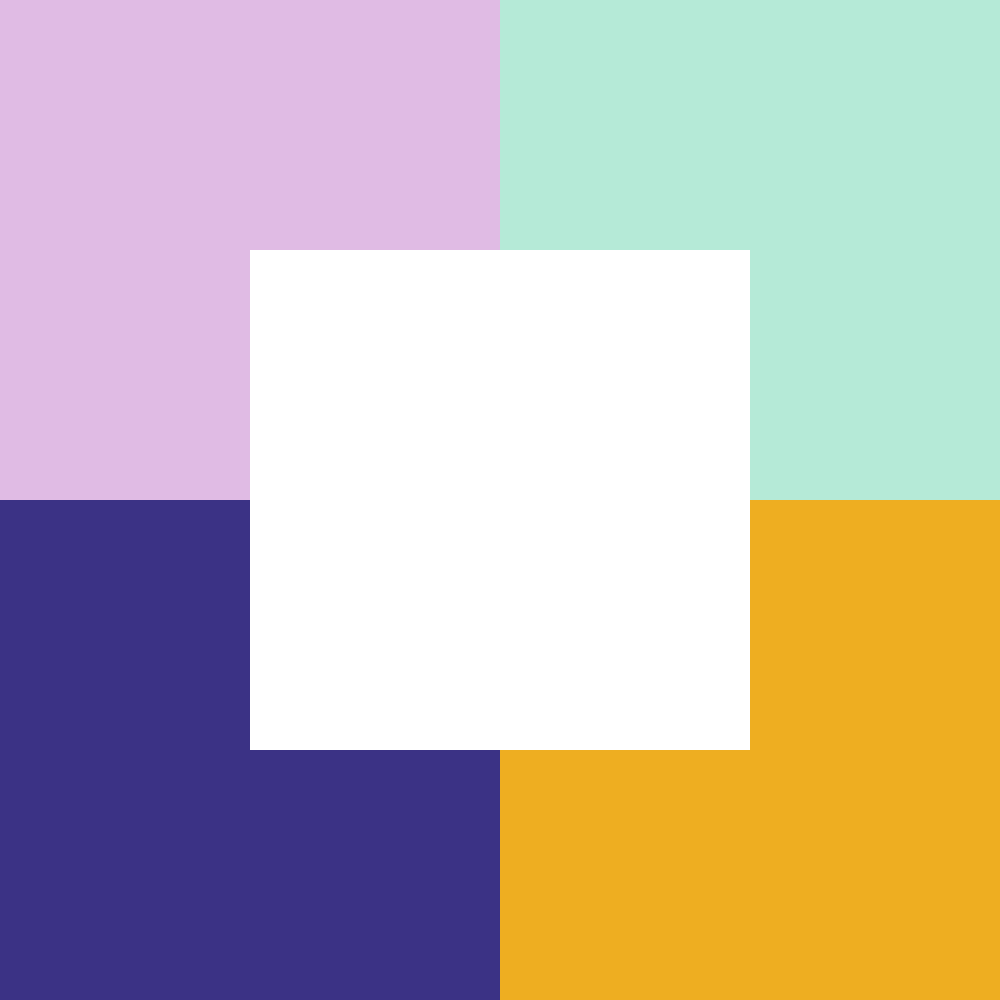
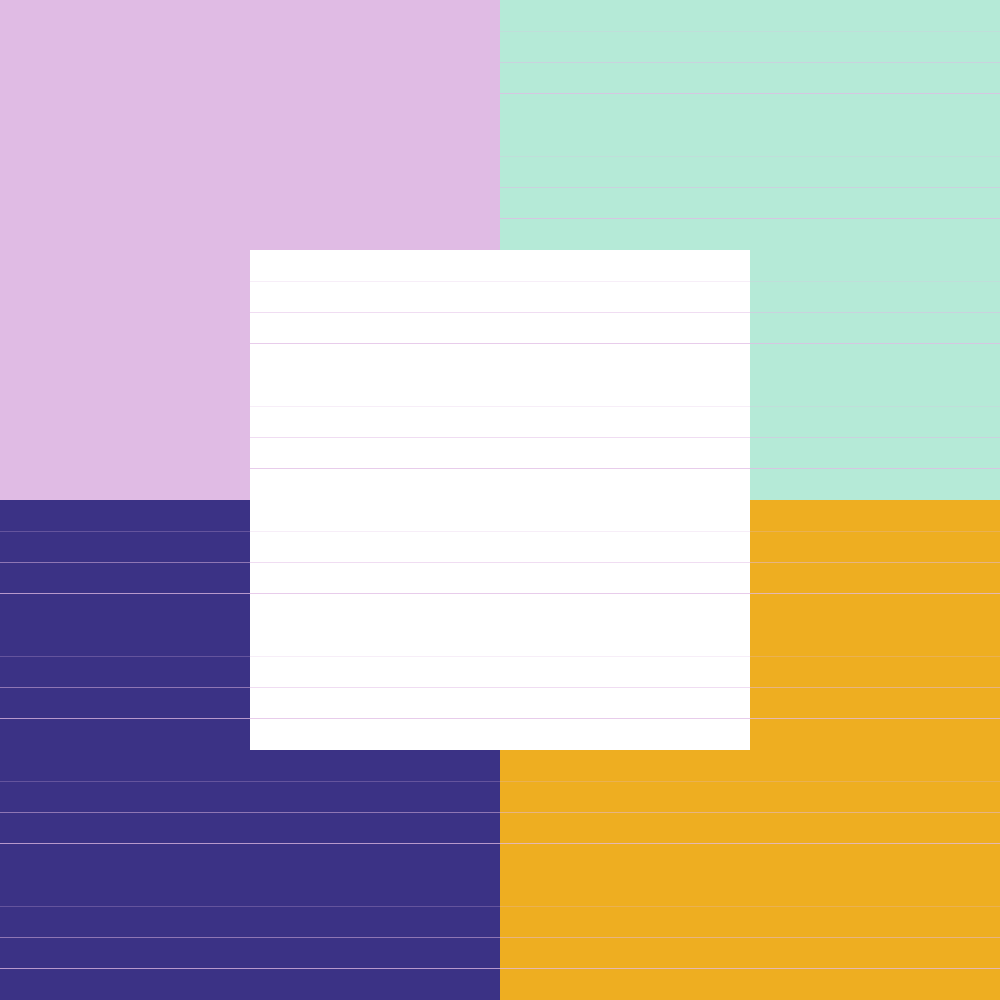
towards 0.0.25 - broken upscale (superpixels) algo while working on further optimization

diff --git a/ta-math/transform.js b/ta-math/transform.js
@@ -642,8 +642,7 @@ let read_2x2_weight_write_24bipp$ta4byis = (ta_source, ta4byis, ta_dest, byi_wri
 
 
 // Now it's got slower taking these 2 ints in the params.
-
-let read_2x2_weight_write_24bipp$2_weight_ints = (ta_source, byi_read, bypr, ta_dest, byi_write, ta_lt_props) => {
+let read_2x2_weight_write_24bipp$2_weight_ints = (ta_source, bypr, byi_read, ta_dest, byi_write, ta_lt_props) => {
 
     // Calculate them each time???
 
@@ -1148,7 +1147,7 @@ let resize_ta_colorspace_24bipp$subpixel = (ta_source, source_colorspace, dest_s
                     copy_px_24bipp(ta_source, byi_source, ta_dest, byi_write);
                 } else {
                     //ta_byi_reads[2] = ta_byi_reads[0] + source_bypr;
-                    read_1x2_weight_write_24bipp(ta_source, byi_source, source_bypr, ta_dest, byi_write, ta_ltrb_edge_props[1], ta_ltrb_edge_props[3]);
+                    read_1x2_weight_write_24bipp(ta_source, source_bypr, byi_source, ta_dest, byi_write, ta_ltrb_edge_props[1], ta_ltrb_edge_props[3]);
                 }
             } else {
                 if (ta_ltrb_edge_props[1] === 1) {
@@ -1174,7 +1173,7 @@ let resize_ta_colorspace_24bipp$subpixel = (ta_source, source_colorspace, dest_s
                     //read_2x2_weight_write_24bipp$2_weight_ints(ta_source, byi_source, source_bypr, ta_dest, byi_write, ta_tl_weight_props);
 
                     // Surprising that below function works faster in a different loop!
-                    read_2x2_weight_write_24bipp(ta_source, byi_source, source_bypr, ta_dest, byi_write, ta_ltrb_corner_props);
+                    read_2x2_weight_write_24bipp(ta_source, source_bypr, byi_source, ta_dest, byi_write, ta_ltrb_corner_props);
 
 
                     // Then inlining the read_2x2_weight_write_24bipp function could speed it up?
@@ -1216,10 +1215,10 @@ let resize_ta_colorspace_24bipp$superpixel = (ta_source, source_colorspace, dest
 
 
     let f_source_x, f_source_r;
-    let i_source_l, i_source_lr_crossover;
+    let i_source_l, i_source_r;
 
     let f_source_y, f_source_b;
-    let i_source_t, i_source_tb_crossover;
+    let i_source_t, i_source_b;
 
     let i_dest_x, i_dest_y;
 
@@ -1227,6 +1226,11 @@ let resize_ta_colorspace_24bipp$superpixel = (ta_source, source_colorspace, dest
     // Typed arrays of the corresponding source(tl) positions / byte offsets?
     //  Storing / caching calculated byte offsets for x and y source reads could speed things up...?
 
+    // segment weights... - as in proportions of the total area.
+    // proportions of the pixel width.
+
+    // Segment size
+    //  Segment proportions of the whole area.
 
 
     const ta_left_edge_segment_proportions = new Float32Array(dest_size[0]);
@@ -1244,6 +1248,7 @@ let resize_ta_colorspace_24bipp$superpixel = (ta_source, source_colorspace, dest
     const ta_source_y_any_coverage_h = new Int16Array(dest_size[1]);
     
     const source_i_any_coverage_size = new Int16Array(2);
+    let fpx_area_recip = 1 / (f_px_w * f_px_h);
 
 
 
@@ -1263,10 +1268,15 @@ let resize_ta_colorspace_24bipp$superpixel = (ta_source, source_colorspace, dest
         f_source_x = i_dest_x * f_px_w;
         f_source_r = f_source_x + f_px_w;
         i_source_l = Math.floor(f_source_x);
+        i_source_r = Math.ceil(f_source_r);
         //i_source_lr_crossover = i_source_l + 1;
 
         ta_source_x[i_dest_x] = i_source_l;
         ta_source_x_byi_component[i_dest_x] = i_source_l * source_bypp;
+        ta_source_x_any_coverage_w[i_dest_x] = i_source_r - i_source_l;
+
+        ta_left_edge_segment_proportions[i_dest_x] = (f_source_x - i_source_l) * fpx_area_recip;
+        ta_right_edge_segment_proportions[i_dest_x] = (i_source_r - f_source_r) * fpx_area_recip;
 
 
         /*
@@ -1281,6 +1291,9 @@ let resize_ta_colorspace_24bipp$superpixel = (ta_source, source_colorspace, dest
         //ta_left_proportions[x] = 
     }
 
+    //console.trace();
+    //throw 'stop';
+
 
     // we only really need to values to calculate all corner weightings as well.
     //  left edge proportion, top edge proportion. multiply the proportions, it should work...
@@ -1293,11 +1306,15 @@ let resize_ta_colorspace_24bipp$superpixel = (ta_source, source_colorspace, dest
         f_source_y = i_dest_y * f_px_h;
         f_source_b = f_source_y + f_px_h;
         i_source_t = Math.floor(f_source_y);
+        i_source_b = Math.ceil(f_source_b);
         //i_source_tb_crossover = i_source_t + 1;
 
         ta_source_y[i_dest_y] = i_source_t;
         ta_source_y_byi_component[i_dest_y] = i_source_t * source_bypr;
+        ta_source_y_any_coverage_h[i_dest_y] = i_source_b - i_source_t;
 
+        ta_top_edge_segment_proportions[i_dest_y] = (f_source_y - i_source_t) * fpx_area_recip;
+        ta_bottom_edge_segment_proportions[i_dest_y] = (i_source_b - f_source_b) * fpx_area_recip;
         /*
         if (f_source_b < i_source_tb_crossover || i_source_t === f_source_y) {
             ta_top_proportions[i_dest_y] = 1;
@@ -1341,7 +1358,7 @@ let resize_ta_colorspace_24bipp$superpixel = (ta_source, source_colorspace, dest
     // Want them as a proportion of the area of the pixel...
 
 
-    let fpx_area_recip = 1 / (f_px_w * f_px_h);
+    
 
 
     
@@ -1351,15 +1368,19 @@ let resize_ta_colorspace_24bipp$superpixel = (ta_source, source_colorspace, dest
 
     // Had bug, fixed...
     for (i_dest_y = 0; i_dest_y < dest_size[1]; i_dest_y++) {
-        ta_ltrb_edge_props[1] = ta_top_proportions[i_dest_y];
-        ta_ltrb_edge_props[3] = 1 - ta_top_proportions[i_dest_y];
+        ta_ltrb_edge_props[1] = ta_top_edge_segment_proportions[i_dest_y];
+        ta_ltrb_edge_props[3] = 1 - ta_bottom_edge_segment_proportions[i_dest_y];
+        source_i_any_coverage_size[1] = ta_source_y_any_coverage_h[i_dest_y];
+
+
         //ta_tl_weight_props[1] = t_prop;
         for (i_dest_x = 0; i_dest_x < dest_size[0]; i_dest_x++) {
+            source_i_any_coverage_size[0] = ta_source_x_any_coverage_w[i_dest_x];
 
             byi_source = ta_source_x_byi_component[i_dest_x] + ta_source_y_byi_component[i_dest_y];
 
-            ta_ltrb_edge_props[0] = ta_left_proportions[i_dest_x];
-            ta_ltrb_edge_props[2] = 1 - ta_left_proportions[i_dest_x];
+            ta_ltrb_edge_props[0] = ta_left_edge_segment_proportions[i_dest_x];
+            ta_ltrb_edge_props[2] = ta_right_edge_segment_proportions[i_dest_x];
 
             
 
@@ -1371,26 +1392,25 @@ let resize_ta_colorspace_24bipp$superpixel = (ta_source, source_colorspace, dest
             // Want the proportions of the toal width, height or area.
             //  
 
-
             //ta_byi_reads[0] = ta_source_x_byi_component[i_dest_x] + ta_source_y_byi_component[i_dest_y];
             //  a typed array of the source byte indexes?
 
             // 2x2, 2x3, 3x2, 3x3, (>3x3, 3x>3???), general purpose.
 
-            
-
-
-
-
             if (ta_ltrb_edge_props[0] === 2) {
                 if (ta_ltrb_edge_props[1] === 2) {
-                    read_2x2_weight_write_24bipp(ta_source, byi_source, source_bypr, ta_dest, byi_write, ta_ltrb_corner_props);
+                    read_2x2_weight_write_24bipp(ta_source, source_bypr, byi_source, ta_dest, byi_write, ta_ltrb_corner_props);
 
 
                     //copy_px_24bipp(ta_source, byi_source, ta_dest, byi_write);
                 } else if (ta_ltrb_edge_props[1] === 3) {
                     //ta_byi_reads[2] = ta_byi_reads[0] + source_bypr;
-                    read_2x3_weight_write_24bipp(ta_source, byi_source, source_bypr, ta_dest, byi_write, ta_ltrb_edge_props[1], ta_ltrb_edge_props[3]);
+
+                    // better to give it the full array?
+
+                    // (ta_source, bypr, byi_read, edge_distances_proportions_of_total, corner_weights_ltrb, ta_dest, dest_byi)
+
+                    read_2x3_weight_write_24bipp(ta_source, source_bypr, byi_source, ta_dest, byi_write, ta_ltrb_edge_props[1], ta_ltrb_edge_props[3]);
                 } else {
                     // px i w covered > 3
 
@@ -1398,10 +1418,13 @@ let resize_ta_colorspace_24bipp$superpixel = (ta_source, source_colorspace, dest
             } else if (ta_ltrb_edge_props[0] === 3) {
                 if (ta_ltrb_edge_props[1] === 2) {
                     //ta_byi_reads[1] = ta_byi_reads[0] + source_bypp;
-                    read_3x2_weight_write_24bipp(ta_source, byi_source, ta_dest, byi_write, ta_ltrb_edge_props[0], ta_ltrb_edge_props[2]);
+
+                    // (ta_source, byi_read, bypr, edge_distances_proportions_of_total, corner_weights_ltrb, ta_dest, dest_byi)
+
+                    read_3x2_weight_write_24bipp(ta_source, source_bypr, byi_source, ta_dest, byi_write, ta_ltrb_edge_props[0], ta_ltrb_edge_props[2]);
                 } else if (ta_ltrb_edge_props[1] === 3) {
 
-                    read_3x3_weight_write_24bipp(ta_source, byi_source, ta_dest, byi_write, ta_ltrb_edge_props[0], ta_ltrb_edge_props[2]);
+                    read_3x3_weight_write_24bipp(ta_source, source_bypr, byi_source, ta_dest, byi_write, ta_ltrb_edge_props[0], ta_ltrb_edge_props[2]);
 
                     //ta_tl_weight_props[0] = l_prop;
                     //ta_ltrb_corner_props[0] = l_prop * ;
@@ -1430,11 +1453,13 @@ let resize_ta_colorspace_24bipp$superpixel = (ta_source, source_colorspace, dest
 
                     // (ta_source, bypr, byi_read, source_i_any_coverage_size, edge_distances_proportions_of_total, corner_weights_ltrb, fpx_area_recip, ta_dest, dest_byi)
 
-                    read_gt3x3_weight_write_24bipp();
+                    //console.log('source_i_any_coverage_size', source_i_any_coverage_size);
+
+                    read_gt3x3_weight_write_24bipp(ta_source, source_bypr, byi_source, source_i_any_coverage_size, ta_ltrb_edge_props, ta_ltrb_corner_props, fpx_area_recip, ta_dest, byi_write);
 
                 }
             } else {
-                read_gt3x3_weight_write_24bipp();
+                read_gt3x3_weight_write_24bipp(ta_source, source_bypr, byi_source, source_i_any_coverage_size, ta_ltrb_edge_props, ta_ltrb_corner_props, fpx_area_recip, ta_dest, byi_write);
             }
 
             byi_write += 3;
@@ -1834,12 +1859,6 @@ const resize_ta_colorspace_24bipp = (ta_source, source_colorspace, dest_size, op
     //  May also be better to use functions for single pixel , 2x1 etc read-merge-write operations.
     //   Would make this function significantly shorter overall, and act more as a function dispatcher.
 
-
-
-
-    
-
-
     //const dest_colorspace = new Int32Array([dest_size[0], dest_size[1], bypp, bypp * dest_size[0], bipp, bipp * dest_size[0]]);
     
     // floating point location in source
@@ -1851,12 +1870,18 @@ const resize_ta_colorspace_24bipp = (ta_source, source_colorspace, dest_size, op
     } else if (dest_to_source_ratio[0] > 1 && dest_to_source_ratio[1] > 1) {
         //return resize_ta_colorspace_24bipp$superpixel(ta_source, source_colorspace, dest_size, opt_ta_dest);
 
+        // Optimized superpixel version could then be ported to C++.
+        //  The superpixel version would need to do more weight and merging calculations.
+
+        
+
+
 
         // Superpixel version will have specific code for superpixels, ie larger weighted areas.
         //  Specific handlers for 2x2, 2x3, 3x2 - they are important, and used in many resized (ones not to a very large scale change)
 
 
-        return resize_ta_colorspace_24bipp$general(ta_source, source_colorspace, dest_size, opt_ta_dest);
+        return resize_ta_colorspace_24bipp$superpixel(ta_source, source_colorspace, dest_size, opt_ta_dest);
 
     } else {
         return resize_ta_colorspace_24bipp$general(ta_source, source_colorspace, dest_size, opt_ta_dest);
